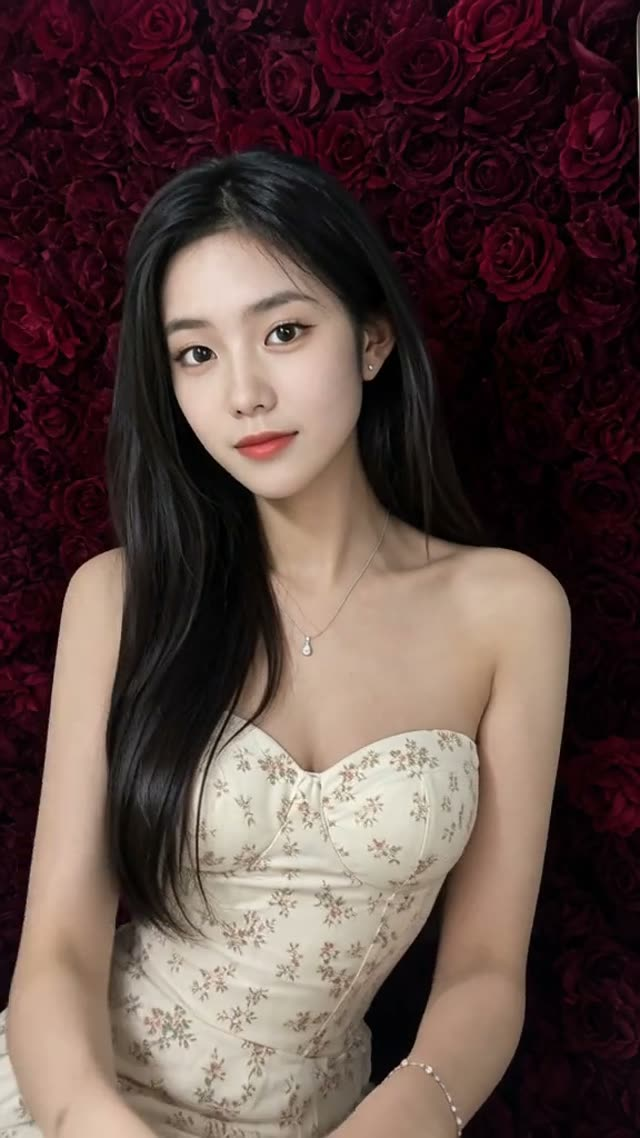
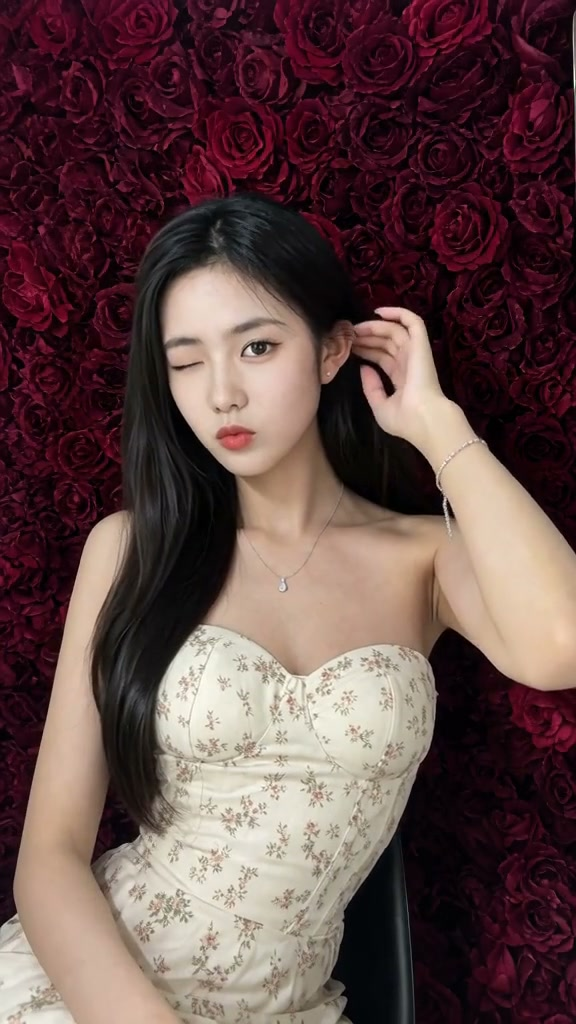
feat(h3): update T-003 with V4B rose portrait

diff --git a/h3/index.html b/h3/index.html
@@ -1200,7 +1200,7 @@ non_diegetic_music: A light, warm acoustic piece in a major key at a relaxed eas
   <header class="case-head">
     <div class="case-title">
       <span class="cid">T-003</span>
-      <h3>酒红玫瑰墙 · 自拍姿态 V4</h3>
+      <h3>酒红玫瑰墙 · 自拍姿态 V4B</h3>
     </div>
     <span class="badge warn">部分成功</span>
   </header>
@@ -1218,12 +1218,12 @@ non_diegetic_music: A light, warm acoustic piece in a major key at a relaxed eas
            src="videos/T-003.mp4"></video>
   </div>
 
-  <p class="note">竖屏 I2VA 原创单镜头，以指定人脸首帧锚定身份。技术验像通过：243 帧、无黑帧/NaN、无镜头切换。V4 将原本的对称托脸改为高位梳发 + 低位下巴手，手势方向改善；但约 7.3 秒变为双眼闭合，未完成要求的单眼 wink。因此作为可观看原型如实收录，未标为验收交付。</p>
+  <p class="note">竖屏 I2VA 原创单镜头，以指定人脸首帧锚定身份。技术验像通过：243 帧、无黑帧/NaN、无镜头切换。V4B 将原本的对称托脸改为高位梳发 + 低位胸前发梢手，并在 wink 前将低手放回腿部；选定样本出现单眼 wink 且无下巴托手。配对实验确认手势结构改善，但 wink 时长与时机仍有 seed 波动，因此作为可观看原型如实收录，未标为验收交付。</p>
 
   <details class="prompt-box">
     <summary>
       <span>查看 Prompt 原文</span>
-      <span class="pmeta">4818 字符 · sha256 d4796c679363</span>
+      <span class="pmeta">4837 字符 · sha256 c46d61321d1b</span>
     </summary>
     <div class="prompt-actions">
       <button class="copy" data-target="p-T-003">复制</button>
@@ -1238,11 +1238,11 @@ From 00:00.000 to 00:03.000 she stays nearly still in the sideways seated pose. 
 
 From 00:03.000 to 00:05.800 she slowly raises exactly one hand to the cheek, ear and side hair, lightly touching or hovering beside a few strands of straight black hair. The other hand stays low. Her torso remains sideways and she makes only a tiny head tilt, holding a neutral expression with the faintest softness. No wink and no obvious smile.
 
-From 00:05.800 to 00:07.100, preserve a clearly staggered, non-symmetric two-hand relationship. The first hand remains high and vertical at the side hair just above the ear, with its fingertips combing one small lock of hair. The second hand alone rises from below and uses only its index and middle fingertips to make one tiny, diagonal touch below the opposite side of the chin. The two hands are at clearly different heights and make different gestures: one vertical in the hair, one low and diagonal near the chin. Both palms are never parallel or horizontal. The raised hair hand never moves underneath the chin. Keep both elbows low and asymmetric. This is not a face frame, not a beauty pose, not a heart and not two hands supporting the face. She makes only a small natural pout.
+From 00:05.800 to 00:06.650, preserve a clearly staggered, non-symmetric two-hand relationship. The first hand remains high and vertical at the side hair just above the ear, with its fingertips combing one small lock of hair. The second hand alone rises only to the lower chest, well below the face, and lightly brushes the end of the long hair over her shoulder with two relaxed fingertips. The hands are at clearly different heights and make different gestures: one vertical in side hair, one low at chest-level hair. Both palms are never parallel or horizontal. Neither hand touches or supports the chin. Keep both elbows low and asymmetric. She makes only a small natural pout.
 
-From 00:07.100 to 00:07.500, keep the same staggered hand geometry: one vertical hand remains in side hair above the ear and the other hand keeps only two fingertips low and diagonal below the opposite side of the chin. She performs exactly one quick natural single-eye wink at about 00:07.300. One eye closes briefly while the other stays open; do not close both eyes, repeat the wink or distort the face. Immediately afterward both eyes return naturally open.
+From 00:06.650 to 00:07.450, the lower chest-level hand falls naturally to her lap and remains low. The original vertical hair hand stays at the side hair above the ear. Her lips relax from the small pout to a neutral closed-mouth expression; both eyes remain open. From 00:07.450 to 00:07.750, with only one hair-side hand near her head and no hand near the lower face, she performs exactly one brief natural single-eye wink at about 00:07.600: only the eye on the viewer&#x27;s left closes while the eye on the viewer&#x27;s right stays visibly open. Do not close both eyes, repeat the wink or distort the face. Immediately afterward both eyes return naturally open.
 
-From 00:07.500 to 00:08.200 the brief two-fingertip chin touch ends first and that hand lowers. The hand already in the side hair slides naturally upward along the same hairline; it is the only arm that rises. From 00:08.200 to 00:10.125, that same hand reaches the top or back of her head with the elbow visible above and beside the head; the other hand remains lowered. Hair shifts only slightly. The torso remains in the same relaxed sideways S-curve. Only now does she form a very subtle closed-mouth smile. During the final 0.8 seconds she holds the ending pose almost still.
+From 00:07.750 to 00:08.200, the already-raised hair hand slides naturally upward along the same hairline; it is the only arm that rises. The other hand remains lowered. From 00:08.200 to 00:10.125, that same hand reaches the top or back of her head with the elbow visible above and beside the head. Hair shifts only slightly. The torso remains in the same relaxed sideways S-curve. Only now does she form a very subtle closed-mouth smile. During the final 0.8 seconds she holds the ending pose almost still.
 
 All movement is slow, smooth, small, casual and physically continuous. Keep natural shoulders, elbows, wrists, five-finger hands, delicate fingers and realistic hair response. Maintain strong temporal consistency: no identity drift, face morphing, eye-shape change, clothing/jewelry/hair change, extra fingers or limbs, broken wrists, warped dress pattern, flower/background flicker, lighting changes, camera/frame jumps, sudden scale change, dramatic hair motion, dancing, exaggerated gestures or additional people.
 

diff --git a/h3/build.py b/h3/build.py
@@ -83,11 +83,12 @@ CASES = [
      "🔴 如实记一条没做到的：微笑只有「起 + 峰」，没有「落」，顶峰持续约 3 秒略显停滞 —— "
      "提示词三拍都写了，模型把回落压成了保持。"
      "另附一条负面结论：`never stops turning` 与纯正向措辞**双 seed 无差别**，效应远小于 seed 噪声。"),
-    ("T-003", "酒红玫瑰墙 · 自拍姿态 V4", "T-003-rose-selfie.txt", "I2VA",
+    ("T-003", "酒红玫瑰墙 · 自拍姿态 V4B", "T-003-rose-selfie.txt", "I2VA",
      "576×1024", 243, "10.125s", "部分成功", "warn",
      "竖屏 I2VA 原创单镜头，以指定人脸首帧锚定身份。技术验像通过：243 帧、无黑帧/NaN、无镜头切换。"
-     "V4 将原本的对称托脸改为高位梳发 + 低位下巴手，手势方向改善；但约 7.3 秒变为双眼闭合，"
-     "未完成要求的单眼 wink。因此作为可观看原型如实收录，未标为验收交付。"),
+     "V4B 将原本的对称托脸改为高位梳发 + 低位胸前发梢手，并在 wink 前将低手放回腿部；"
+     "选定样本出现单眼 wink 且无下巴托手。配对实验确认手势结构改善，但 wink 时长与时机仍有 seed 波动，"
+     "因此作为可观看原型如实收录，未标为验收交付。"),
 ]
 
 # 每个案例的 prompt 出处（复现记录 h3-oss-REPRODUCTION-LOG.md 里的「来源」行）。
